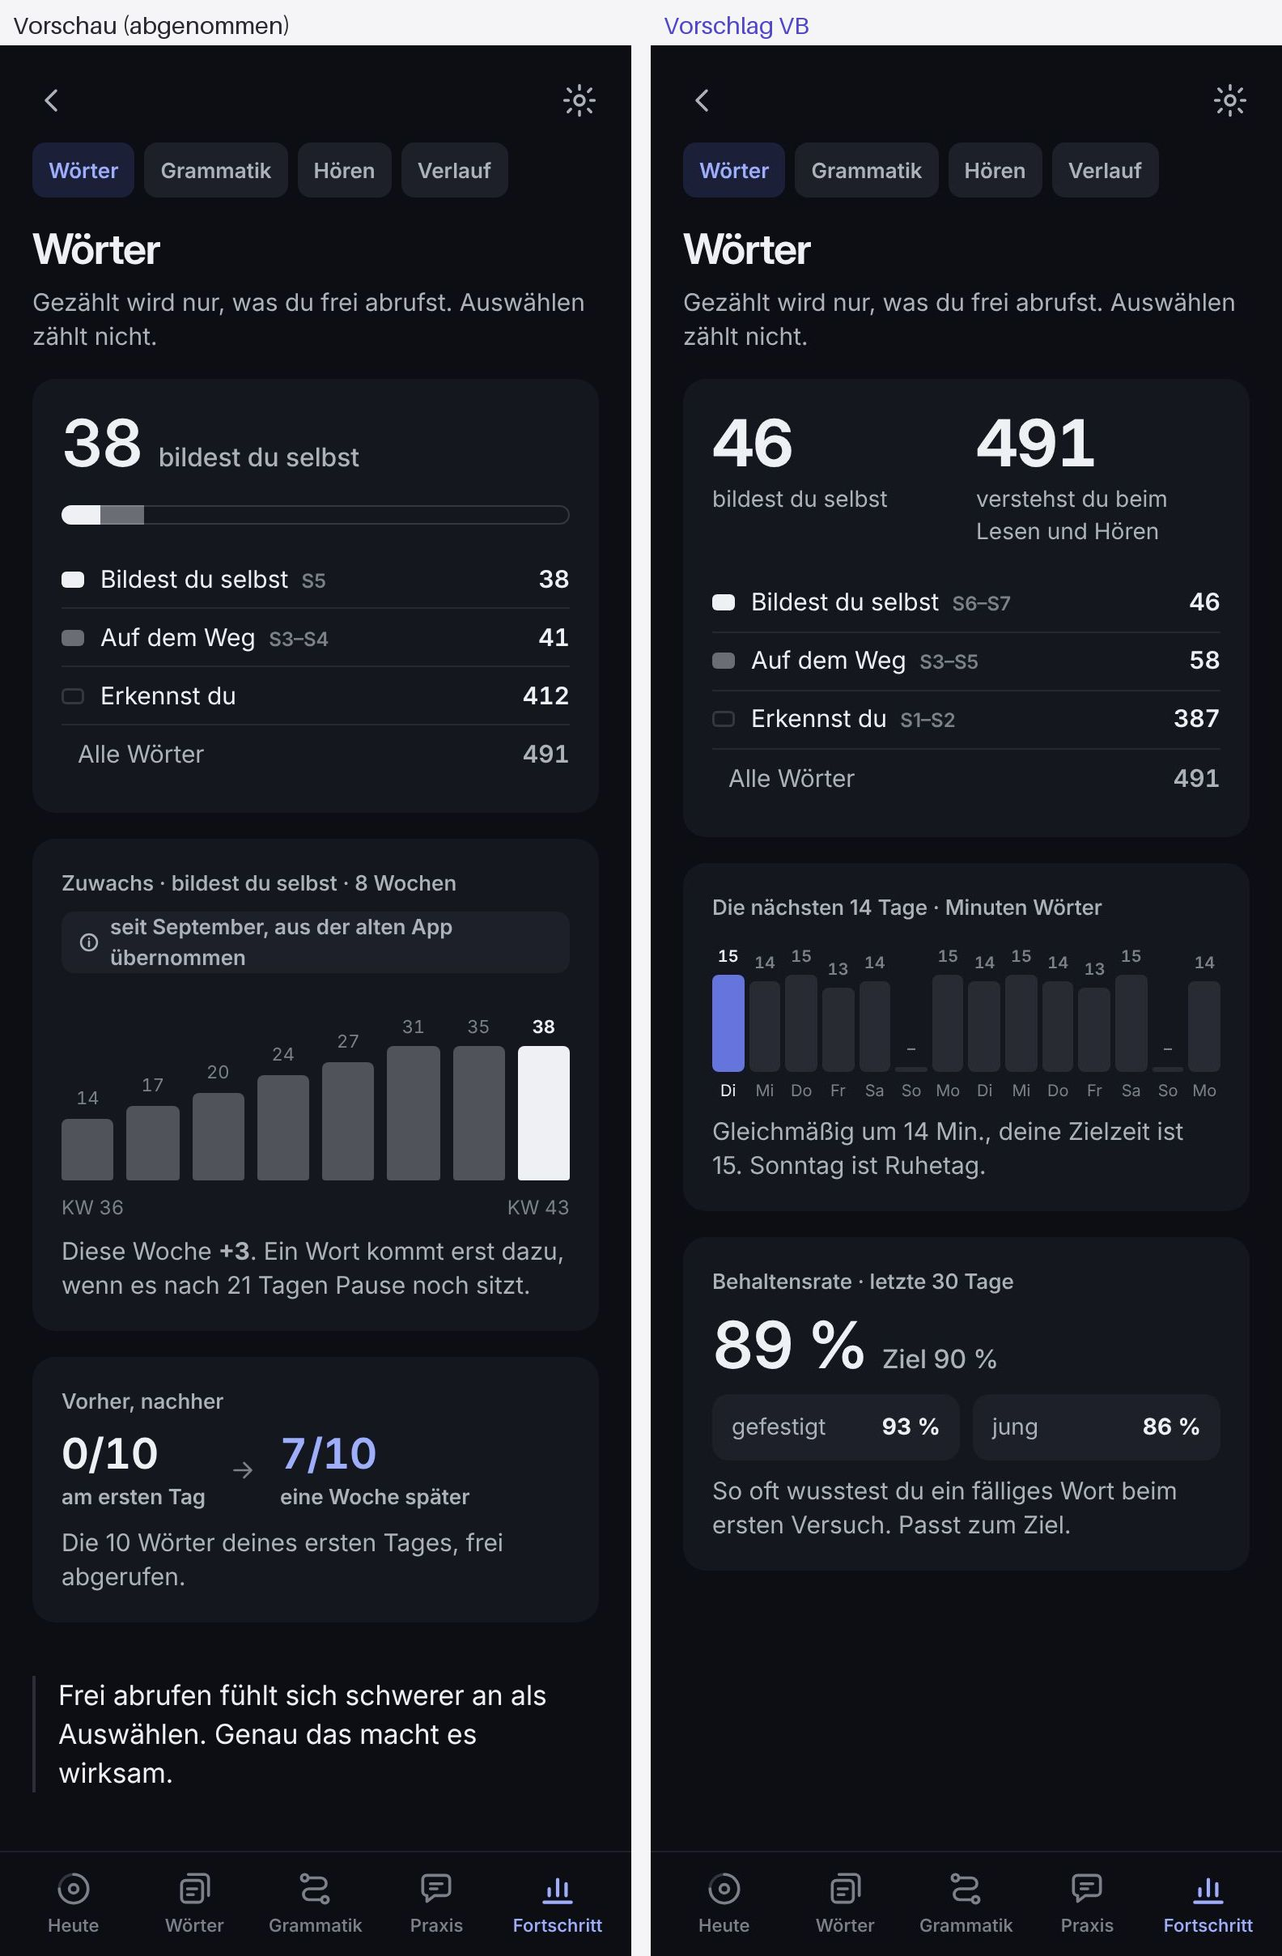
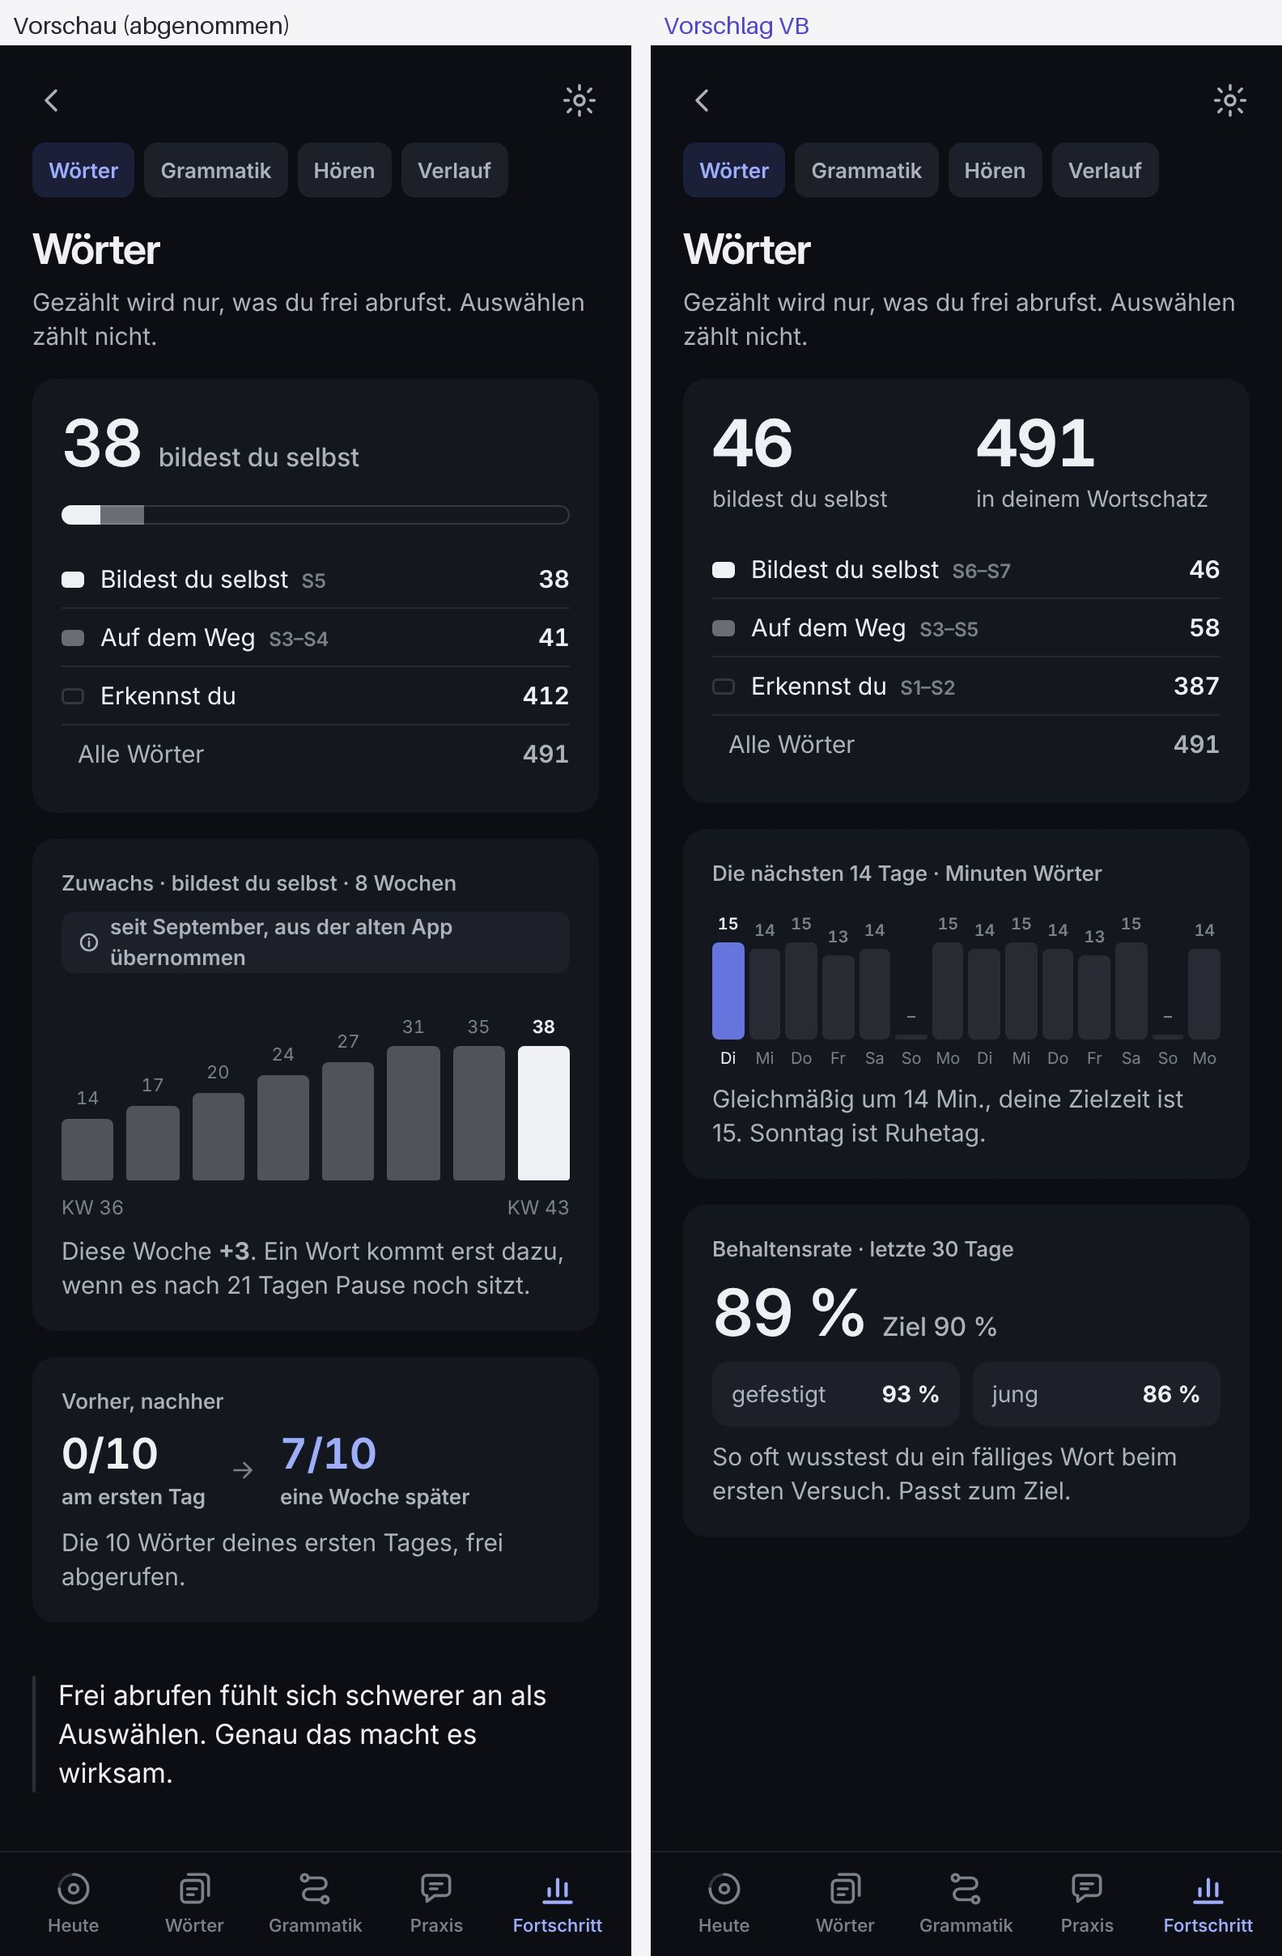
VB: zweite Lehrer-Gegenlesung eingearbeitet (Anwenden, Wort-Detail, Dashboard, Kontrast)
Claude-Session: https://claude.ai/code/session_01JA41d6qQULedxVLfzkr6GX

diff --git a/docs/umbau/vokabeln/bilder/src/vb-screens.js b/docs/umbau/vokabeln/bilder/src/vb-screens.js
@@ -48,7 +48,7 @@ function vbPhone(v) {
     return VB.head(0.15, 'Wörter · <b>Neues Wort</b> · 1 von 3', 'Neues Wort. Hör es dir an und lies den Satz.') +
       '<div class="stack s16" style="padding-top:22px">' +
       '<div class="sent en">Their license expires in March, so they need to <span class="gap"><span class="lts">renew</span></span> it.</div>' +
-      '<div class="vb-try">Dein Versuch: <b class="en">extend</b> · auch richtig. <span class="en">extend</span> = Laufendes verlängern, <span class="en">renew</span> = nach Ablauf neu abschließen (Abo, Lizenz).</div>' +
+      '<div class="vb-try">Dein Versuch: <b class="en">extend</b> · auch richtig. <span class="en">extend</span> = die Laufzeit verlängern, oft kurz · <span class="en">renew</span> = für eine neue Laufzeit erneuern (Lizenz, Abo, Vertrag).</div>' +
       '<div class="card stack s8"><div style="display:flex;align-items:center;gap:10px"><div class="disp en" style="font-size:28px;line-height:34px;font-weight:700">renew</div>' + VB.tone('intro-tone') + '</div>' +
       '<div class="p2 en">/rɪˈnuː/ · Verb</div><div class="disp" style="font-size:20px;line-height:26px;font-weight:600">verlängern, erneuern</div>' +
       '<div class="hr"></div><div class="lbl">Wortpartner</div><div class="p en">renew a license · renew a subscription · renew a contract</div></div>' +
@@ -127,12 +127,12 @@ function vbPhone(v) {
   if (v === 'false-friend') {
     return VB.head(0.6, 'Wörter · <b>Kontrast</b> · Deutsch-Falle', 'Setz das fehlende Wort ein.') +
       '<div class="stagec"><div class="sent en">After three rounds of talks, they ' + gapHtml('eventua', { caret: true, input: true }) + ' signed the contract.</div>' +
-      '<div class="vb-hrow"><div class="hintline">Gesucht: schließlich, am Ende</div>' + VB.tone('ff-tone') + '</div></div></div>' + VB.tipBtns();
+      '<div class="vb-hrow"><div class="hintline">Gesucht: schließlich, nach einiger Zeit · sieht aus wie ein deutsches Wort</div>' + VB.tone('ff-tone') + '</div></div></div>' + VB.tipBtns();
   }
   if (v === 'false-friend-band') {
     return VB.head(0.64, 'Wörter · <b>Kontrast</b> · Deutsch-Falle', 'Setz das fehlende Wort ein.') +
       '<div class="stagec"><div class="sent en">After three rounds of talks, they <span class="gap st-ok"><span class="lts">eventually</span></span> signed the contract.</div>' +
-      '<div class="hintline">Gesucht: schließlich, am Ende</div></div></div>' +
+      '<div class="hintline">Gesucht: schließlich, nach einiger Zeit · sieht aus wie ein deutsches Wort</div></div></div>' +
       VB.band('ok', {
         verdict: 'Richtig', cmp: '<span class="you">Du:</span> <b class="en">eventually</b>',
         why: 'Sieht aus wie „eventuell“, heißt aber: schließlich, nach einiger Zeit. Es passiert sicher, nur später.',
@@ -166,7 +166,7 @@ function vbPhone(v) {
       '<div class="hintline">Muster: <span class="en">comply ___ something</span> · befolgen, einhalten</div></div></div>' +
       VB.band('bad', {
         verdict: 'Noch nicht', cmp: '<span class="you">Du:</span> <s class="en">comply to</s> <span class="you">→ Richtig:</span> <b class="en">comply with</b>',
-        why: 'Verb + <span class="en">with</span>: <span class="en">comply with a policy, a law</span>. Nicht <span class="en">to</span>, auch wenn man auf Deutsch „sich an etwas halten“ denkt.',
+        why: 'Verb + <span class="en">with</span>: <span class="en">comply with a policy, a law</span>. Nicht <span class="en">to</span>, auch wenn <span class="en">adhere to</span> und <span class="en">stick to</span> dasselbe heißen.',
         partners: 'comply with a policy · comply with regulations', back: 'gleich noch einmal ohne Satz · dann morgen', extra: VB.moreBtn + VB.alsoBtn, knew: true
       });
   }
@@ -203,7 +203,7 @@ function vbStart(v) {
       '<p class="p2" style="margin:0">Dazu 2 neue Wörter, wie an jedem Lerntag. Heute ohne Anwenden. Ab Fr wieder dein normaler Plan.</p>' +
       '<button class="btn pri full" id="vb-go">Los geht’s</button></div>'
     : '<div class="card stack s16 vb-start"><div class="lbl">Heute</div><div class="disp" style="font-size:28px;line-height:34px;font-weight:700">Wörter · ca. 14 Min.</div>' +
-      '<p class="p" style="margin:0"><b>Warum diese?</b> 11 fällig, die du am ehesten vergisst, zuerst · 3 neue, eingestreut · am Ende 3 Min. Anwenden.</p>' +
+      '<p class="p" style="margin:0"><b>Warum diese?</b> 11 fällig, die du am ehesten vergisst, zuerst · 3 neue, eingestreut (heute weniger, weil viel fällig ist) · am Ende 3 Min. Anwenden.</p>' +
       '<div class="vb-mix"><span style="flex:11" class="d"></span><span style="flex:3" class="n"></span><span style="flex:3" class="a"></span></div>' +
       '<div class="vb-mixl"><span>11 fällig</span><span>3 neu</span><span>Anwenden</span></div>' +
       '<button class="btn pri full" id="vb-go">Los geht’s</button></div>';
@@ -216,7 +216,7 @@ VB.spread = () => {
 };
 function vbDone() {
   const rows = [
-    ['plus', 'Heute gelernt', '<b>3 neue:</b> <span class="en">renew, lead time, leverage</span>'],
+    ['plus', 'Heute gelernt', '<b>3 neue:</b> <span class="en">renew, turnaround time, onboarding</span>'],
     ['up', 'Aufgestiegen', '<b>6 Wörter.</b> <span class="en">budget approval</span> bildest du jetzt selbst.'],
     ['cross', 'Gestolpert', '<b>2:</b> <span class="en">comply with</span> kommt morgen wieder, <span class="en">procurement</span> am Fr, 6.11.'],
     ['cal', 'Morgen', '<b>ca. 12 Min.</b> · 9 fällig, 2 neue']
@@ -306,7 +306,7 @@ function vbDetail(v) {
   const top = '<div class="stack s6"><div style="display:flex;align-items:center;gap:10px"><div class="prompt disp en" style="font-size:36px;line-height:42px">procurement</div>' + VB.tone('d-tone') + '</div><div class="p2 en">/prəˈkjʊrmənt/ · Nomen</div></div>' +
     '<div class="disp" style="font-size:22px;line-height:28px;font-weight:600">der Einkauf (Abteilung und Ablauf)</div>';
   if (v === 'history') {
-    const rows = [['Di, 3.11.', 'Lücke tippen', 'h', 'fast richtig: procurment', 'kommt wieder Fr, 6.11.'], ['Do, 29.10.', 'Anwenden (Mail)', 'h', 'Wortpartner knapp', 'zählt, aber kein Aufstieg'], ['Mo, 26.10.', 'Dieses Wort üben', 'g', 'nur Übung', 'keine Wirkung auf den Plan'], ['Fr, 23.10.', 'Hören → tippen', 'f', 'frei richtig', 'Verstehen: nächster Abruf 21.11.'], ['Di, 20.10.', 'Lücke tippen', 'f', 'frei richtig', 'Aufstieg auf Stufe 4'], ['Do, 15.10.', 'Lücke tippen', 'x', 'falsch: purchase', 'kam am selben Tag noch einmal']];
+    const rows = [['Di, 3.11.', 'Lücke tippen', 'h', 'fast richtig: procurment', 'kommt wieder Fr, 6.11.'], ['Do, 29.10.', 'Eigener Satz', 'f', 'frei richtig', 'zählt, noch kein Aufstieg'], ['Mo, 26.10.', 'Dieses Wort üben', 'g', 'nur Übung', 'keine Wirkung auf den Plan'], ['Fr, 23.10.', 'Hören → tippen', 'f', 'frei richtig', 'Verstehen: nächster Abruf 21.11.'], ['Di, 20.10.', 'Lücke tippen', 'f', 'frei richtig', 'Aufstieg auf Stufe 4'], ['Do, 15.10.', 'Lücke tippen', 'x', 'falsch: purchase', 'kam am selben Tag noch einmal']];
     return head + '<div class="scroll gx stack s16" style="padding-bottom:24px">' + top +
       '<div class="card stack s8"><div class="lbl">Verlauf · 6 Wochen</div>' + VB.timeline() + '</div>' +
       '<div class="card" style="padding:4px 16px">' + rows.map(r => '<div class="st vb-hr"><span class="vb-hd t' + r[2] + '"></span><span class="vb-hrt"><b>' + r[0] + ' · ' + r[1] + '</b><span>' + r[3] + ' · ' + r[4] + '</span></span></div>').join('') + '</div></div>' + tabbar('h12');
@@ -315,8 +315,8 @@ function vbDetail(v) {
     '<div class="card stack s8"><div class="lbl">Verlauf · 6 Wochen</div>' + VB.timeline() + '<button class="link" style="align-self:flex-start">Alle Versuche</button></div>' +
     '<div class="stack s6"><div class="lbl">Ursprungssatz · aus deinem Lesen, Di 22.9.</div><p class="p en" style="font-size:18px;line-height:26px;margin:0">The <b>procurement</b> process can take up to six months in the public sector.</p></div>' +
     '<div class="stack s6"><div class="lbl">Wortpartner</div><p class="p en" style="margin:0">procurement team · procurement process · public procurement</p></div>' +
-    '<div class="stack s6"><div class="lbl">Deine Sätze</div><div class="vb-own"><span class="vb-ok">' + ic('check', 'xs') + '</span><p class="en">Their procurement team needs two weeks to approve the order.</p><span class="vb-ownm">geprüft · 29.10. · getippt</span></div>' +
-    '<p class="p2" style="margin:0">Für Stufe 7 zählen eigene Sätze erst ab Stufe 5: dann 2 in verschiedenen Zusammenhängen, einer davon gern gesprochen.</p></div>' +
+    '<div class="stack s6"><div class="lbl">Deine Sätze</div><div class="vb-own"><span class="vb-ok">' + ic('check', 'xs') + '</span><p class="en">Public procurement rules mean we need three quotes before we can sign.</p><span class="vb-ownm">geprüft · 29.10. · getippt</span></div>' +
+    '<p class="p2" style="margin:0">Für Stufe 7 brauchst du 2 eigene Sätze in verschiedenen Zusammenhängen, einer gern gesprochen. Sie zählen ab Stufe 5.</p></div>' +
     '<div class="stack s6"><div class="lbl">Auch woanders gesehen</div><p class="p" style="margin:0">im Lesen gesehen (19.10.) · in einer C1-Aufgabe richtig benutzt (27.10.)</p></div>' +
     '<button class="btn pri full">Dieses Wort üben</button></div>' + tabbar('h12');
 }
@@ -332,7 +332,7 @@ reg('vbdl', {
       '<div class="stack s6"><div class="lbl">Ursprungssatz · aus deinem Lesen, Di 22.9.</div><p class="p en" style="margin:0;font-size:1.1em">The <b>procurement</b> process can take up to six months in the public sector.</p></div></div>';
     const ctx = ctxBlock('Üben', '<button class="btn pri full">Dieses Wort üben</button><p class="p2" style="margin:0;font-size:.85em">Nicht fällig: zählt als Übung, der Plan bleibt.</p>') +
       ctxBlock('Wortpartner', '<p class="p en" style="margin:0">procurement team · procurement process · public procurement</p>') +
-      ctxBlock('Deine Sätze', '<div class="vb-own"><span class="vb-ok">' + ic('check', 'xs') + '</span><p class="en">Their procurement team needs two weeks to approve the order.</p><span class="vb-ownm">geprüft · 29.10. · getippt</span></div>') +
+      ctxBlock('Deine Sätze', '<div class="vb-own"><span class="vb-ok">' + ic('check', 'xs') + '</span><p class="en">Public procurement rules mean we need three quotes before we can sign.</p><span class="vb-ownm">geprüft · 29.10. · getippt</span></div>') +
       ctxBlock('Auch woanders gesehen', '<p class="p2" style="margin:0">im Lesen (19.10.) · C1-Aufgabe richtig benutzt (27.10.)</p>');
     return { stage, ctx };
   }
@@ -347,7 +347,7 @@ function vbDash() {
   const ret = '<div class="card stack s8"><div class="lbl">Behaltensrate · letzte 30 Tage</div><div class="ts-bign"><b class="disp num">89 %</b><span>Ziel 90 %</span></div>' +
     '<div class="vb-rt"><div><span>gefestigt</span><b class="num">93 %</b></div><div><span>jung</span><b class="num">86 %</b></div></div>' +
     '<p class="p2" style="margin:0">So oft wusstest du ein fälliges Wort beim ersten Versuch. Passt zum Ziel.</p></div>';
-  const counts = '<div class="card stack s16"><div class="vb-two"><div><b class="disp num">46</b><span>bildest du selbst</span></div><div><b class="disp num">491</b><span>verstehst du beim Lesen und Hören</span></div></div>' +
+  const counts = '<div class="card stack s16"><div class="vb-two"><div><b class="disp num">46</b><span>bildest du selbst</span></div><div><b class="disp num">491</b><span>in deinem Wortschatz</span></div></div>' +
     '<div class="ts-leg"><div><span class="ts-sw f5"></span><span>Bildest du selbst <em>S6–S7</em></span><b class="num">46</b></div><div><span class="ts-sw f34"></span><span>Auf dem Weg <em>S3–S5</em></span><b class="num">58</b></div><div><span class="ts-sw out"></span><span>Erkennst du <em>S1–S2</em></span><b class="num">387</b></div><div class="tot"><span></span><span>Alle Wörter</span><b class="num">491</b></div></div></div>';
   return tsPage('h14-main', gearBtn(), tsProgNav('words') + tsTitle('Wörter', 'Gezählt wird nur, was du frei abrufst. Auswählen zählt nicht.') + counts + fc + ret, 'h14');
 }
@@ -361,30 +361,30 @@ reg('vbb', { code: 'VBB', name: 'Dashboard Wörter (Entwurf)', kind: 'phone', va
 
 /* B7 Anwenden (neu H38) */
 VB.chips = (st) => '<div class="vb-chips en">' + [['postpone', 0], ['lead time', 1], ['sign off on', 2]].map(c => '<span class="chip' + (st ? ' vb-c' + st[c[1]] : '') + '">' + (st ? ic({ ok: 'check', near: 'near', bad: 'cross' }[st[c[1]]], 'xs') : '') + c[0] + '</span>').join('') + '</div>';
-VB.mail = 'Hi Mark, we have to postpone the rollout by one week. The lead time for the new scanners is longer than planned. Could your team sign off the order by Friday?';
+VB.mail = 'Hi Mark, we have to postpone the rollout on next week. The lead time for the new scanners is longer than planned. Could your team sign off the order by Friday?';
 function vbApply(v) {
-  const top = exTop(VB.blocks(), 1, 0.9) + '<div class="ex-body gx">' + blockLine('w', 'Wörter · <b>Anwenden</b> · ca. 3 Min.') + instr('Schreib 2–3 Sätze und benutze die drei Wörter.');
-  const lage = '<div class="card stack s8"><div class="lbl">Mail an einen Kunden · freundlich, klar</div><p class="p" style="margin:0">Sag Mark, dass sich der Rollout um eine Woche verschiebt, warum, und bitte ihn, die Bestellung bis Freitag freizugeben.</p></div>';
+  const top = exTop(VB.blocks(), 1, 0.9) + '<div class="ex-body gx">' + blockLine('w', 'Wörter · <b>Anwenden</b> · ca. 3 Min.') + instr('Schreib 2–4 Sätze und benutze die drei Wörter.');
+  const lage = '<div class="card stack s8"><div class="lbl">Mail an einen Kunden · freundlich, klar</div><p class="p" style="margin:0">Sag Mark, dass sich der Rollout auf nächste Woche verschiebt, weil die neuen Scanner länger brauchen, und bitte ihn, die Bestellung bis Freitag freizugeben.</p></div>';
   if (v === 'task') {
     return top + '<div class="stack s16" style="padding-top:16px">' + lage + VB.chips() +
       '<div class="field en" style="min-height:150px">' + VB.mail + '<span class="caret" style="display:inline-block;width:2px;height:1em;background:var(--act-text);vertical-align:-2px;margin-left:1px"></span></div></div></div>' +
       exFoot('<button class="btn sec" aria-label="Diktieren">' + ic('mic', 'sm') + '</button>' + btnPri('apply-check', 'Prüfen'), true) + drawnKbd({ go: 'return' });
   }
   if (v === 'feedback') {
-    const rows = [['ok', 'postpone', 'richtig benutzt: einen Termin nach hinten schieben.'], ['ok', 'lead time', 'richtig: die Zeit bis zur Lieferung.'], ['near', 'sign off on', 'Wort richtig, Partner fehlt: <b>sign off on</b> the order. Ohne <i>on</i> klingt es unfertig.']];
+    const rows = [['near', 'postpone', 'Wort richtig, Präposition nicht: verschieben <i>auf</i> = <b>postpone to</b> oder <b>until next week</b>, nicht <i>on</i>.'], ['ok', 'lead time', 'richtig: die Zeit bis zur Lieferung.'], ['ok', 'sign off on', 'richtig: freigeben. Im US-Englisch meist <b>sign off on the order</b>; ohne <i>on</i> ist es britisch üblich und auch richtig.']];
     return exTop(VB.blocks(), 1, 0.95) + '<div class="ex-body gx">' + blockLine('w', 'Wörter · <b>Anwenden</b> · geprüft von Claude') +
-      '<div class="stack s16" style="padding-top:14px">' + VB.chips(['ok', 'ok', 'near']) +
-      '<div class="card en" style="font-size:16px;line-height:24px">Hi Mark, we have to <u class="vb-uok">postpone</u> the rollout by one week. The <u class="vb-uok">lead time</u> for the new scanners is longer than planned. Could your team <u class="vb-unear">sign off</u> the order by Friday?</div>' +
+      '<div class="stack s16" style="padding-top:14px">' + VB.chips(['near', 'ok', 'ok']) +
+      '<div class="card en" style="font-size:16px;line-height:24px">Hi Mark, we have to <u class="vb-unear">postpone</u> the rollout <u class="vb-unear">on</u> next week. The <u class="vb-uok">lead time</u> for the new scanners is longer than planned. Could your team <u class="vb-uok">sign off</u> the order by Friday?</div>' +
       '<div class="card" style="padding:4px 16px">' + rows.map(r => '<div class="st vb-fr"><span class="vb-fi ' + r[0] + '">' + ic({ ok: 'check', near: 'near' }[r[0]], 'xs') + '</span><span class="vb-hrt"><b class="en">' + r[1] + '</b><span>' + r[2] + '</span></span></div>').join('') + '</div>' +
-      '<div class="stack s6"><div class="lbl">So ginge es natürlicher</div><p class="p en" style="margin:0">Could your team <b>sign off on</b> the order by Friday?</p></div>' +
-      '<p class="vb-quiet">' + ic('cal', 'xs') + '<span>Zählt als Wiederholung: <span class="en">postpone</span> und <span class="en">lead time</span> rücken weiter, <span class="en">sign off on</span> kommt morgen ohne Satz.</span></p></div></div>' +
-      exFoot(btnSec('apply-also', 'War das auch richtig?') + btnPri('apply-next', 'Weiter'));
+      '<div class="vb-hrow"><button class="link" id="apply-better">Bessere Fassung zeigen</button><button class="link" id="apply-also">War das auch richtig?</button></div>' +
+      '<p class="vb-quiet">' + ic('cal', 'xs') + '<span>Zählt als Wiederholung: <span class="en">lead time</span> und <span class="en">sign off on</span> rücken weiter, <span class="en">postpone</span> kommt bald wieder, weil die Präposition gefehlt hat.</span></p></div></div>' +
+      exFoot(btnSec('apply-again', 'Nochmal selbst schreiben') + btnPri('apply-next', 'Weiter'));
   }
   /* offline: ohne Claude */
   return exTop(VB.blocks(), 1, 0.95) + '<div class="ex-body gx">' + blockLine('w', 'Wörter · <b>Anwenden</b> · ohne Claude') +
     '<div class="stack s16" style="padding-top:14px"><div class="notice">' + ic('offline', 'sm') + '<span><b>Claude ist gerade nicht erreichbar.</b> Vergleich selbst mit dem Muster. Das zählt nicht für den Plan, deine Termine bleiben.</span></div>' +
     '<div class="stack s6"><div class="lbl">Dein Text</div><p class="p en" style="margin:0">' + VB.mail + '</p></div>' +
-    '<div class="card stack s8"><div class="lbl">Muster</div><p class="p en" style="margin:0">Hi Mark, we need to <b>postpone</b> the rollout by a week. The <b>lead time</b> for the new scanners is longer than expected. Could your team <b>sign off on</b> the order by Friday?</p></div>' +
+    '<div class="card stack s8"><div class="lbl">Muster</div><p class="p en" style="margin:0">Hi Mark, we need to <b>postpone</b> the rollout <b>until</b> next week. The <b>lead time</b> for the new scanners is longer than expected. Could your team <b>sign off on</b> the order by Friday?</p></div>' +
     '<p class="p2" style="margin:0">Achte auf die fett gedruckten Wörter: Steht bei dir dasselbe?</p></div></div>' +
     exFoot(btnSec('apply-retry', 'Später prüfen lassen') + btnPri('apply-next', 'Weiter'));
 }
